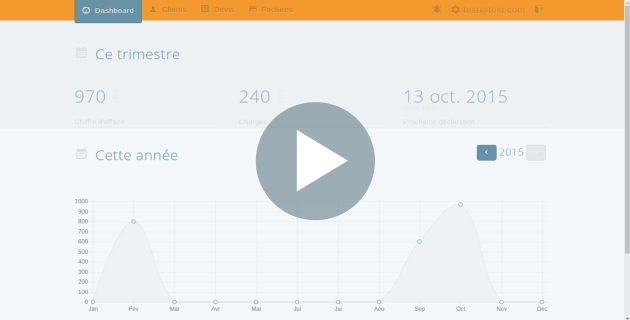
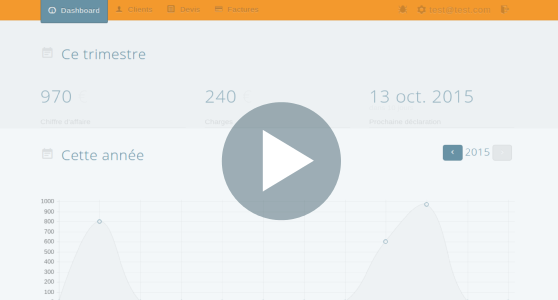
update video | fix responsivness

diff --git a/dist/templates/home.html b/dist/templates/home.html
@@ -1,4 +1,4 @@
-<section class="background"><div class="main-texture"></div><div id="main-background" class="large-display"></div><div id="welcome" class="large-display"></div><div id="content" class="container"><div class="twelve col"><h3 class="text-right octo-top text-white">Enfin une bonne raison<br> d'entreprendre !</h3><a ng-click="trackCta1()" href="http://91.121.133.217:9000/inscription" class="cta pull-right button quad-bot primary">essais gratuit</a></div></div></section><section class="background bg-white"><!--.main-texture--><div id="video-container"><div id="video-box" ng-init="isVideoClicked=false" class="quad-top"><img id="video-cover" ng-click="videoClickMask()" ng-if="isVideoClicked == false" src="assets/imgs/png/video.png"/><iframe  ng-if="isVideoClicked == true" width="100%" height="315" src="https://www.youtube.com/embed/Tve2GEGn7GA?rel=0&autoplay=1" frameborder="0" allowfullscreen></iframe></div><div class="clearfix"></div><h4 class="text-center double-top">Vos devis en moins de<br>60 secondes</h4></div></section><section><div class="clearfix quad-top"></div><div class="container"><div class="row"><div class="eight col quad-top"><h4 class="add-top remove-bot">Retour à l'essentiel</h4><h6 class="text-grey-80">Une interface simple pour une prise en main immédiate.</h6><p class="quad-bot">Conçus par des auto-entrepreneurs, Peon est probablement le logiciel le plus proche de vous.
+<section class="background"><div class="main-texture"></div><div id="main-background" class="large-display"></div><div id="welcome" class="large-display"></div><div id="content" class="container"><div class="twelve col"><h3 class="text-right octo-top text-white">Enfin une bonne raison<br> d'entreprendre !</h3><a ng-click="trackCta1()" href="http://91.121.133.217:9000/inscription" class="cta pull-right button quad-bot primary">essais gratuit</a></div></div></section><section class="background bg-white"><!--.main-texture--><div id="video-container"><div id="video-box" ng-init="isVideoClicked=false" class="quad-top"><img id="video-cover" ng-click="videoClickMask()" ng-if="isVideoClicked == false" src="assets/imgs/png/video.png"/><iframe  ng-if="isVideoClicked == true" frameborder="0" width="558" height="300" src="https://www.youtube.com/embed/Tve2GEGn7GA?rel=0&theme=dark&color=white&autoplay=1&autohide=1&modestbranding=1&showinfo=0&rel=0&iv_load_policy=3" frameborder="1" allowfullscreen></iframe></div><div class="clearfix"></div><h4 class="text-center double-top">Vos devis en moins de<br>60 secondes</h4></div></section><section><div class="clearfix quad-top"></div><div class="container"><div class="row"><div class="eight col quad-top"><h4 class="add-top remove-bot">Retour à l'essentiel</h4><h6 class="text-grey-80">Une interface simple pour une prise en main immédiate.</h6><p class="quad-bot">Conçus par des auto-entrepreneurs, Peon est probablement le logiciel le plus proche de vous.
 Nous avons éliminé toutes options superflu pour vous garantir un environnement de travail agréable et
 intuitif.</p></div><div id="waypoint1" class="four col"><div id="circle-image-1" class="big-circle quad-top large-display"></div></div></div><div class="row"><div id="waypoint2" class="four col"><div id="circle-image-2" class="big-circle quad-top large-display"></div></div><div class="eight col text-right"><h4 class="quad-top remove-bot">Plus rapide</h4><h6 class="text-grey-80">Des fonctionnalités innovantes pour plus de temps libre.</h6><p>Grace à ses fonctionnalités innovantes, comme l'édition de facture instantanée, ou la validation des devis en
 ligne, Peon accélère le fonctionnement quotidien de votre auto-entreprise.

diff --git a/dist/styles/style.css b/dist/styles/style.css
@@ -1820,7 +1820,7 @@ section.background {
   padding-top: 1px; }
   #video-container #video-box {
     position: relative;
-    width: 50%;
+    width: 558px;
     max-height: 350px;
     margin: 0 auto;
     padding: 20px;
@@ -1831,7 +1831,7 @@ section.background {
     -o-transition: all 200ms ease-in-out;
     transition: all 200ms ease-in-out; }
     #video-container #video-box:hover {
-      background-color: #f0f0f0; }
+      background-color: white; }
     #video-container #video-box #video-cover {
       z-index: 10;
       width: 100%;

diff --git a/src/styles/molecule/home.scss b/src/styles/molecule/home.scss
@@ -28,14 +28,14 @@ section.background {
 	padding-top:1px;
 	#video-box {
 		position:relative;
-		width:50%;
+		width:558px;
 		max-height:350px;
 		margin: 0 auto;
 		padding: 20px;
 		background-color: $color-grey-05;
 		@include transition();
 		&:hover{
-			background-color: $color-grey-15;
+			background-color: white;
 		}
 		iframe {
 
